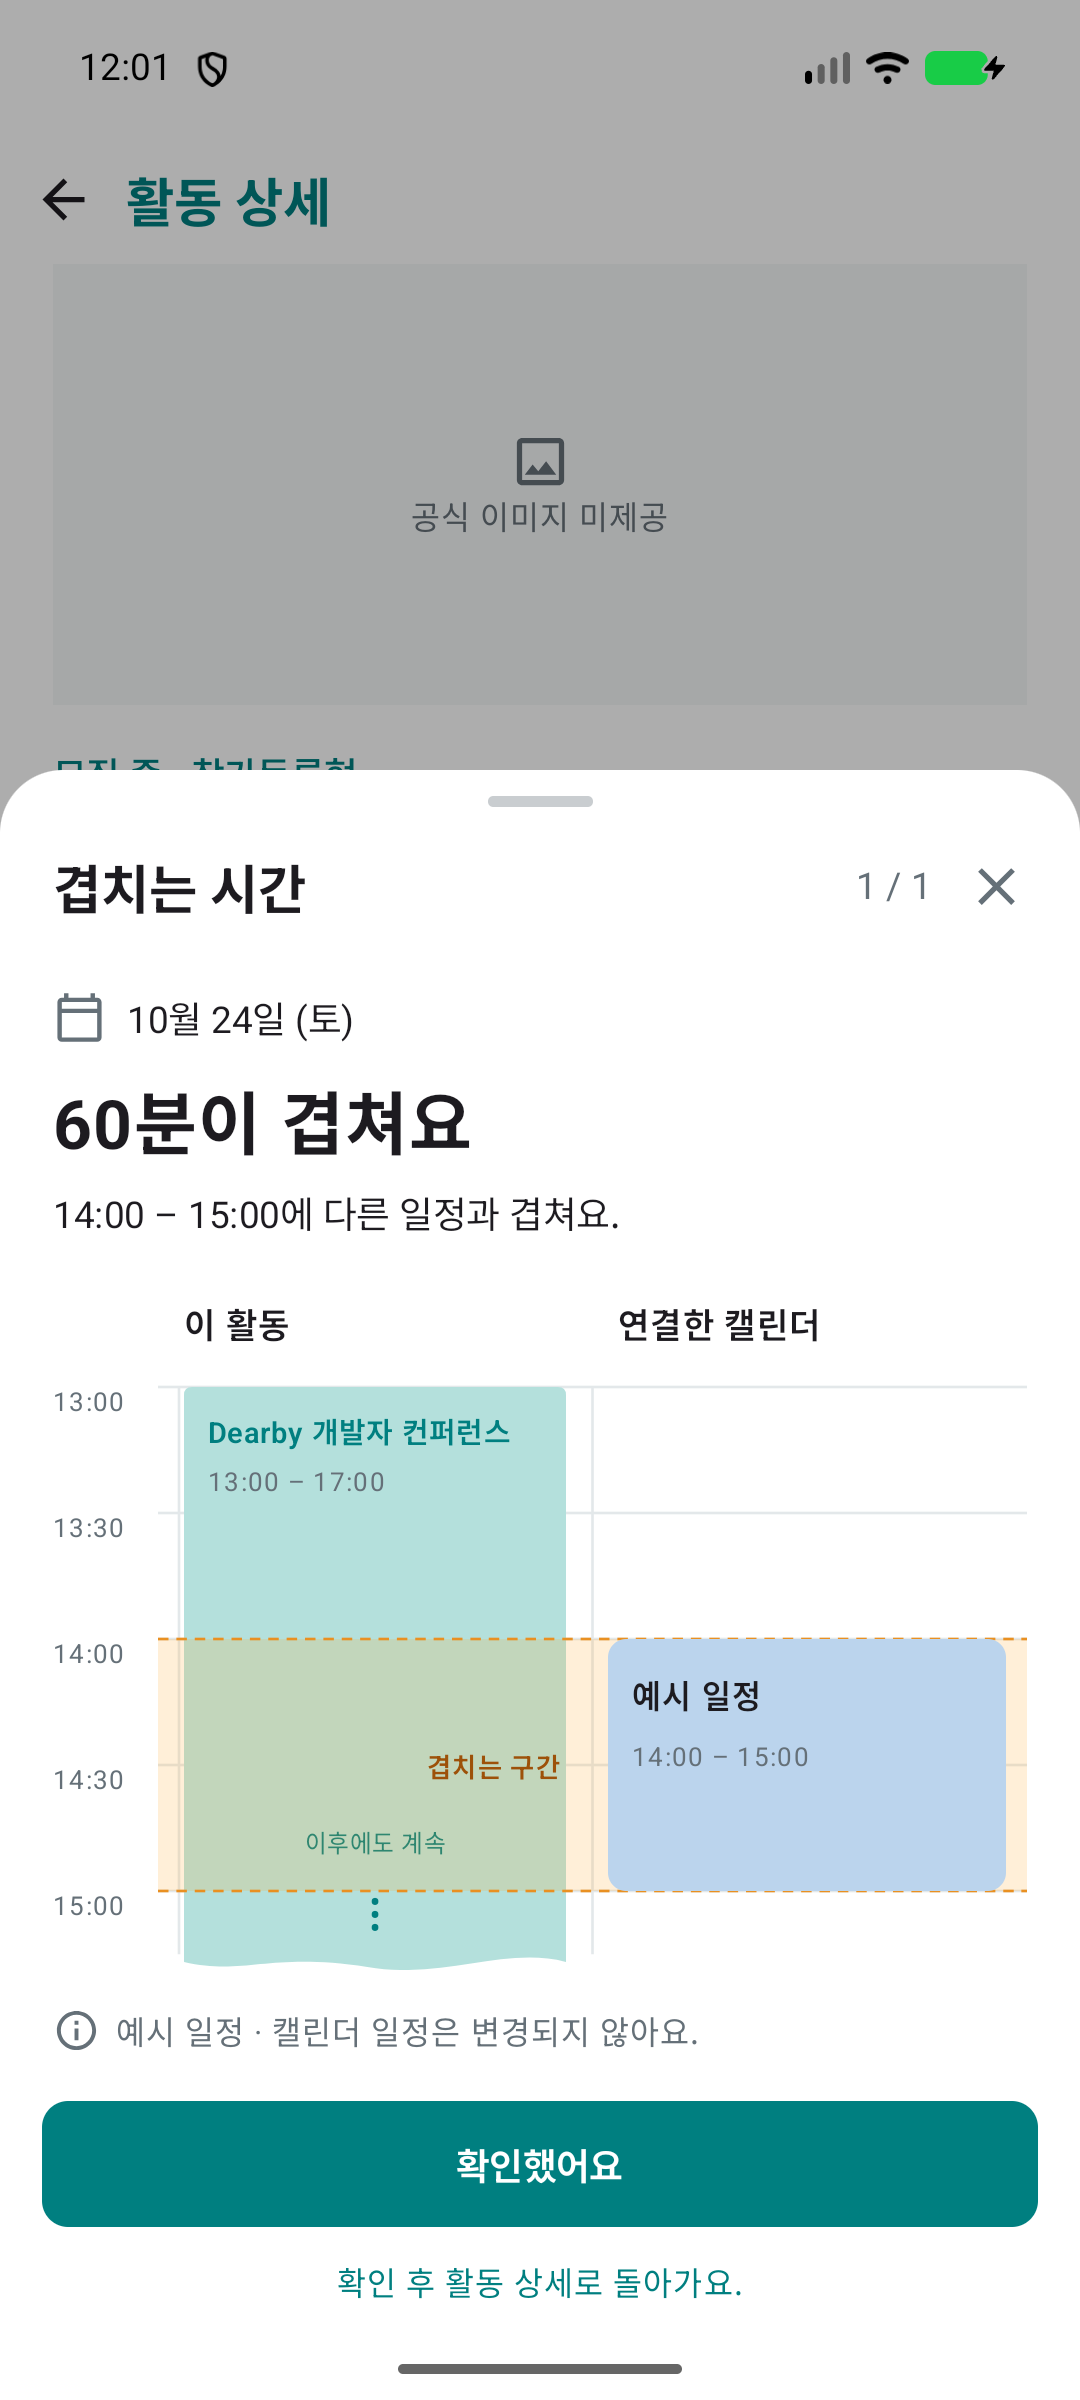
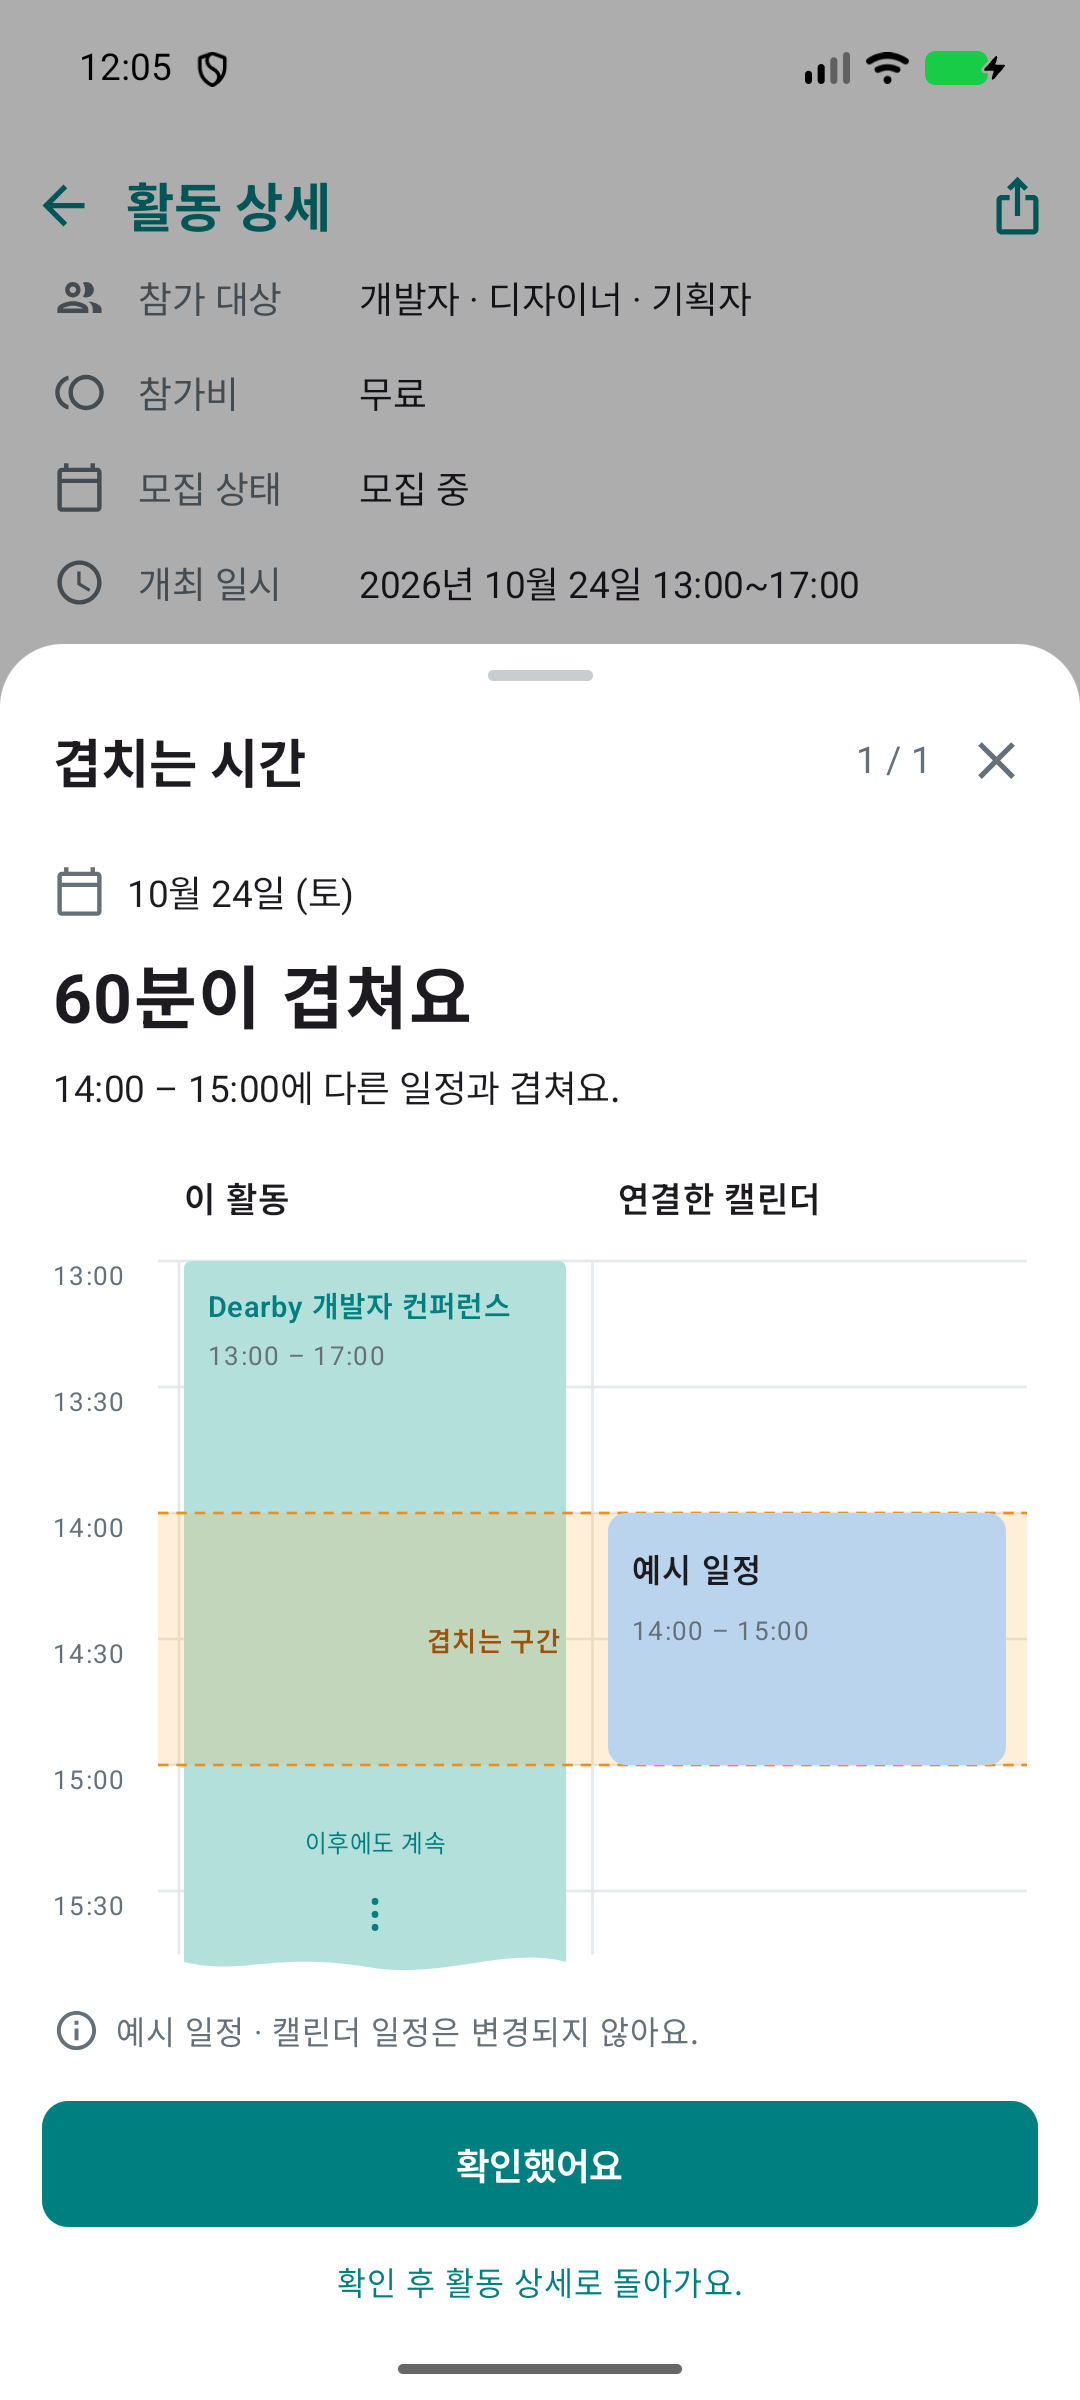
fix(android): show calendar continuation below overlap end

diff --git a/apps/android/app/src/main/java/com/dearby/nativeapp/features/calendar/CalendarOverlapTimeline.kt b/apps/android/app/src/main/java/com/dearby/nativeapp/features/calendar/CalendarOverlapTimeline.kt
@@ -40,7 +40,7 @@ private val ContinuingBlock = GenericShape { size, _ ->
     fun time(value: Long) = clock.format(Instant.ofEpochMilli(value))
     val chartStart = overlap.activity.start
     val interval = 30 * 60_000L
-    val rows = 4
+    val rows = 5
     val rowHeight = 48.dp
     val gridHeight = rowHeight * rows
     val tail = 30.dp

diff --git a/apps/android/docs/VERIFICATION.md b/apps/android/docs/VERIFICATION.md
@@ -21,3 +21,5 @@ Scope: one existing Android 16 emulator at default font scale. External browser 
 The newly approved timetable reference is implemented as a native bottom sheet: rounded top/handle, count/close, date, 60-minute overlap summary, 30-minute two-column grid, teal/blue blocks, orange interval/dashes and continued-activity edge. Selection stays in its previous screen and is absent from the result. Zero overlap has a compact summary; confirmation closes the sheet. No calendar permission or data access was added.
 
 Build/unit/lint/AndroidTest APK passed again; FSD 14 files/19 self-tests passed. Existing emulator UI tests: 2 passed in 10.423 seconds. Captures in `evidence/calendar-timetable` were compared with the supplied reference. Fixture-specific values intentionally differ: October 24, 13–17 activity, 14–15 busy time, 60 minutes and 1/1. This is a checkpoint before the newly requested five-tab/card/profile UI expansion.
+
+The timetable visible range was extended to 15:30 after review so “이후에도 계속” is below the 15:00 overlap end. Current-flow selected references are now native photo cards, detail hero, summary/info rows, agenda timeline, bottom information and a memory-only application banner. Fixed fixture titles/dates remain the authorized three examples. Root-provided local conference/camp/meetup images are used directly; no remote image loader.
